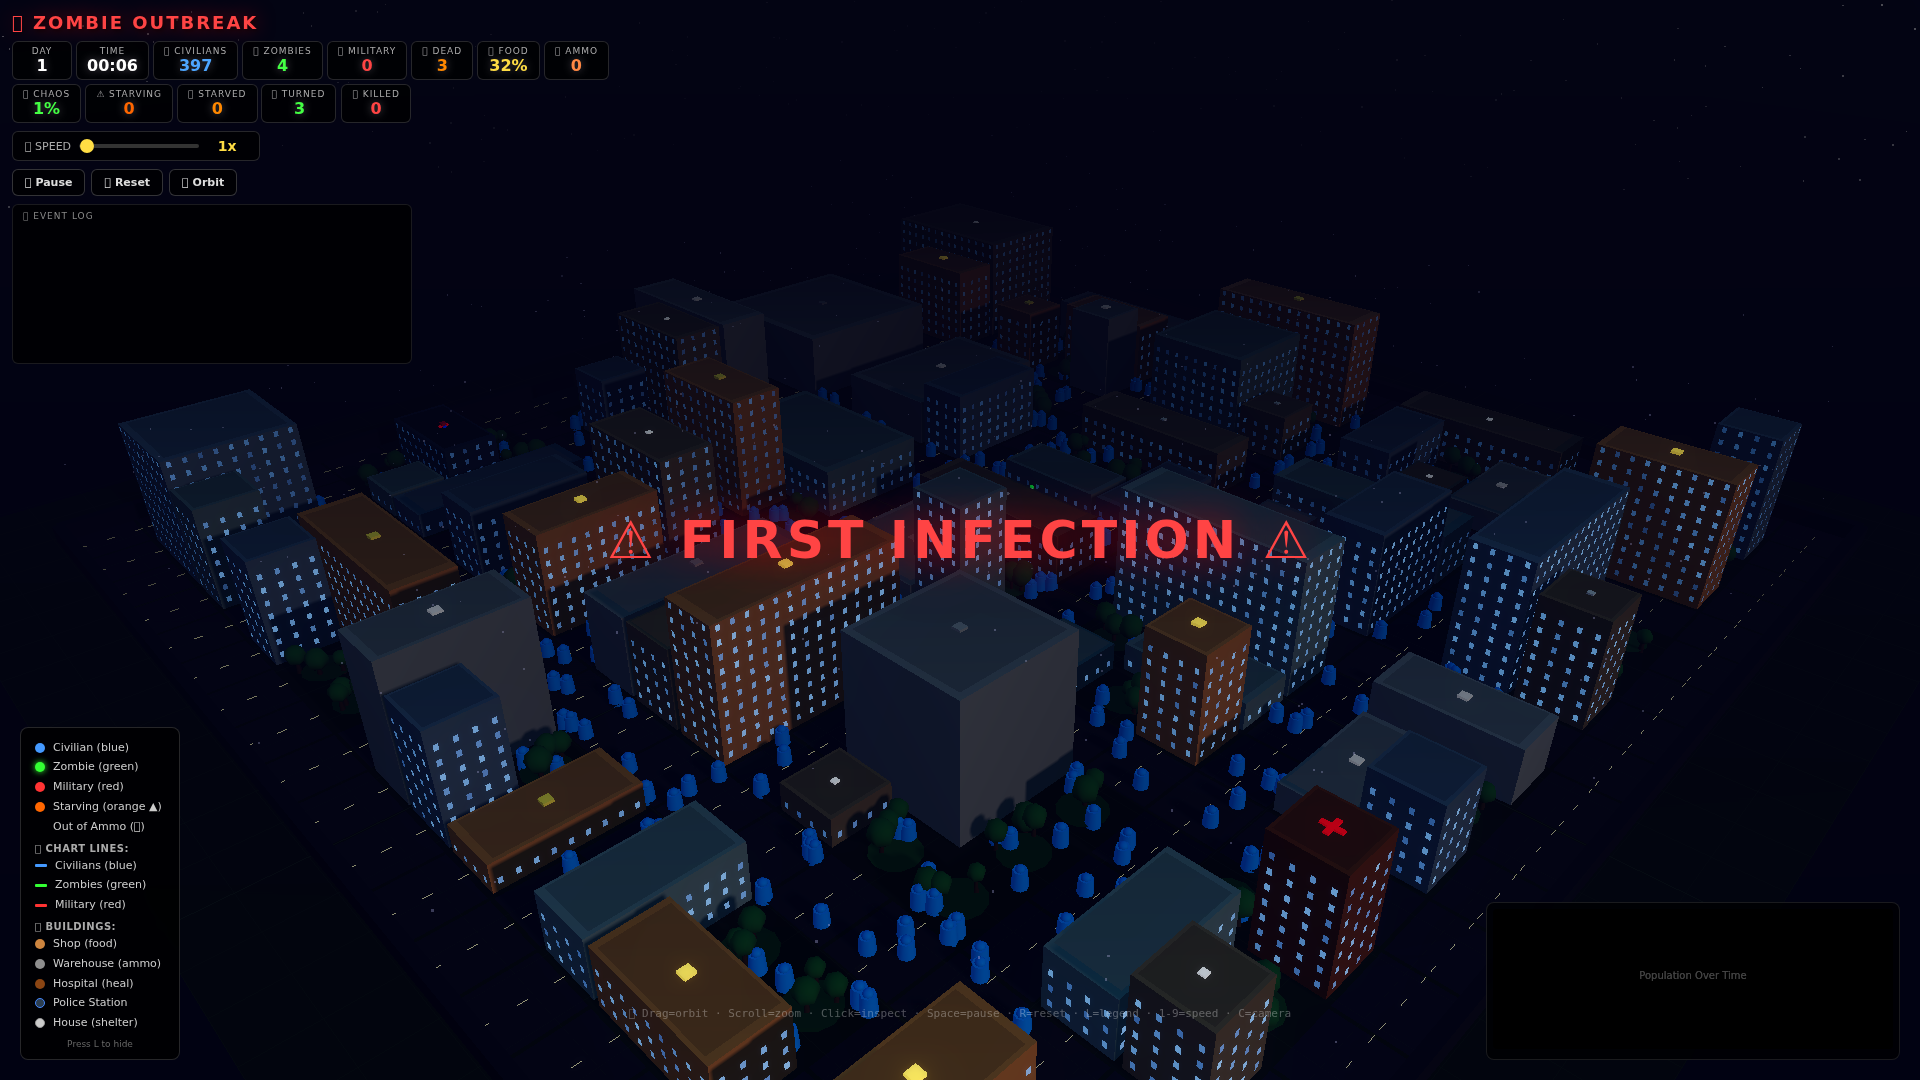
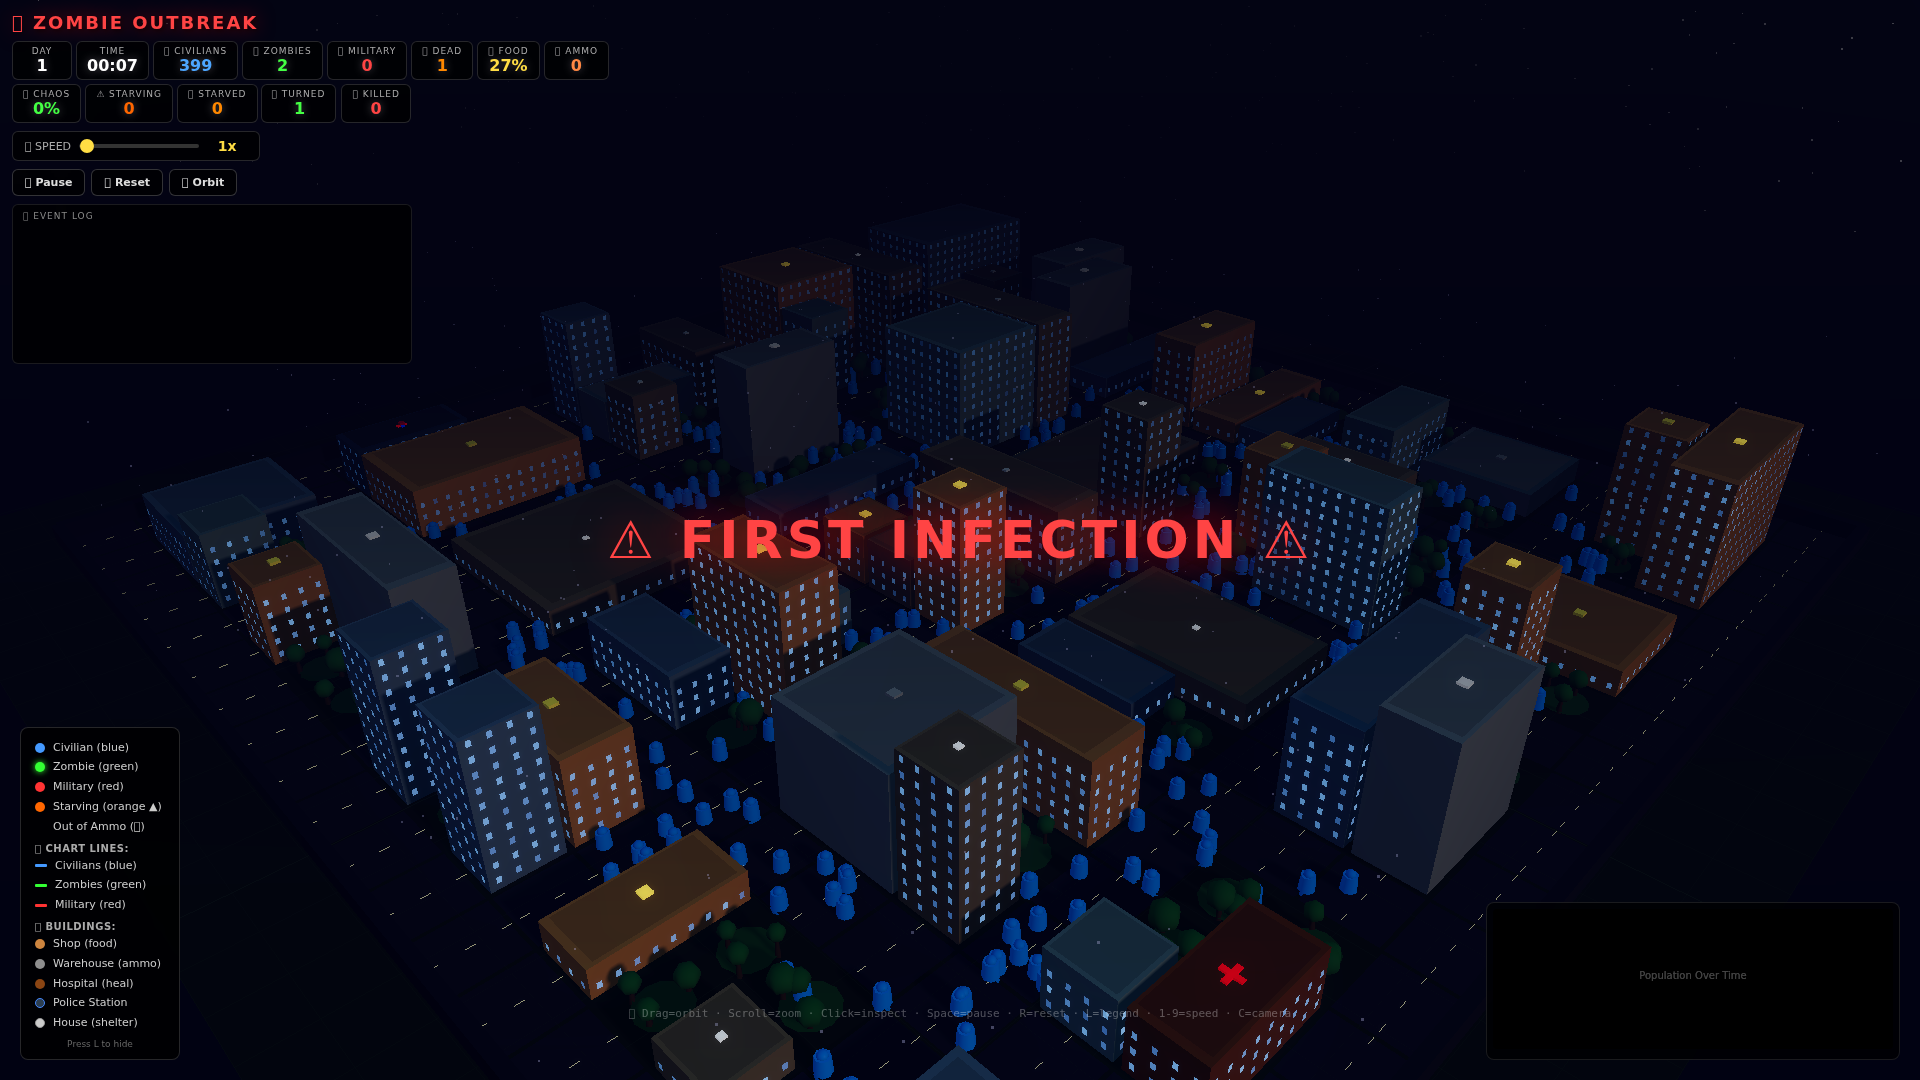
Make occupation dots, starving indicators, and bang sprites much bigger and visible

Changed region(s): [[0.0625, 0.275, 0.9375, 1.0], [0.4062, 0.2139, 0.5312, 0.275]]

diff --git a/src/renderer.ts b/src/renderer.ts
@@ -269,7 +269,7 @@ export class Renderer3D {
     this.militaryGeom = new THREE.BoxGeometry(0.45, 0.6, 0.45);
     this.antennaGeom = new THREE.CylinderGeometry(0.02, 0.02, 0.2, 3);
     this.noAmmoIndicatorGeom = new THREE.ConeGeometry(0.08, 0.12, 3);
-    this.starvingIndicatorGeom = new THREE.ConeGeometry(0.06, 0.08, 3);
+    this.starvingIndicatorGeom = new THREE.ConeGeometry(0.15, 0.25, 6);
 
     // ─── Particle system (effects) ───
     this.particleGeom = new THREE.BufferGeometry();
@@ -459,11 +459,11 @@ export class Renderer3D {
           emissiveIntensity: 0.3,
         });
         const hBar = new THREE.Mesh(new THREE.BoxGeometry(0.8, 0.08, 0.2), crossMat);
-        hBar.position.set(b.x, b.h + 0.06, b.z);
+        hBar.position.set(b.x, b.h + 0.08, b.z);
         this.scene.add(hBar);
         this.buildingMeshes.push(hBar);
         const vBar = new THREE.Mesh(new THREE.BoxGeometry(0.2, 0.08, 0.8), crossMat);
-        vBar.position.set(b.x, b.h + 0.06, b.z);
+        vBar.position.set(b.x, b.h + 0.08, b.z);
         this.scene.add(vBar);
         this.buildingMeshes.push(vBar);
       }
@@ -536,7 +536,7 @@ export class Renderer3D {
           emissiveIntensity: 0.15,
         });
         const mark = new THREE.Mesh(new THREE.BoxGeometry(0.25, 0.08, 0.25), houseMat);
-        mark.position.set(b.x, b.h + 0.06, b.z);
+        mark.position.set(b.x, b.h + 0.08, b.z);
         this.scene.add(mark);
         this.specialBuildingLights.push(mark);
       }
@@ -868,7 +868,7 @@ export class Renderer3D {
       }
     }
 
-    const dotGeom = new THREE.PlaneGeometry(0.16, 0.16);
+    const dotGeom = new THREE.PlaneGeometry(0.6, 0.6);
 
     for (const [bId, count] of buildingOccupants.entries()) {
       if (count <= 0) continue;
@@ -878,7 +878,7 @@ export class Renderer3D {
       const dotCount = Math.min(count, 12);
       const cols = Math.min(4, Math.ceil(Math.sqrt(dotCount)));
       const rows = Math.ceil(dotCount / cols);
-      const spacing = 0.3;
+      const spacing = 0.7;
 
       let dots = this.buildingOccupantDots.get(bId);
 
@@ -891,14 +891,14 @@ export class Renderer3D {
           const col = i % cols;
           const row = Math.floor(i / cols);
           const mat = new THREE.MeshBasicMaterial({
-            color: i < 2 ? 0x44aaff : 0x66ccff,
+            color: i < 2 ? 0x44ddff : 0x88eeff,
             transparent: true,
-            opacity: 0.85,
+            opacity: 1.0,
             depthWrite: false,
             side: THREE.DoubleSide,
           });
           const dot = new THREE.Mesh(dotGeom.clone(), mat);
-          dot.position.set(b.x + startX + col * spacing, b.h + 0.06, b.z + startZ + row * spacing);
+          dot.position.set(b.x + startX + col * spacing, b.h + 0.08, b.z + startZ + row * spacing);
           dot.rotation.x = -Math.PI / 2;
           this.scene.add(dot);
           dots.push(dot);
@@ -1144,25 +1144,25 @@ export class Renderer3D {
         opacity: 0,
       });
       const starvingMesh = new THREE.Mesh(this.starvingIndicatorGeom, starvingMat);
-      starvingMesh.position.y = 0.78;
+      starvingMesh.position.y = 0.85;
       starvingMesh.userData.isStarving = true;
       starvingMesh.visible = false;
       group.add(starvingMesh);
 
       // Pulsing red "!" sprite for starving civilians
       const bangCanvas = document.createElement('canvas');
-      bangCanvas.width = 32;
-      bangCanvas.height = 32;
+      bangCanvas.width = 64;
+      bangCanvas.height = 64;
       const bangCtx = bangCanvas.getContext('2d')!;
       bangCtx.fillStyle = '#ff0000';
       bangCtx.beginPath();
-      bangCtx.arc(16, 16, 14, 0, Math.PI * 2);
+      bangCtx.arc(32, 32, 28, 0, Math.PI * 2);
       bangCtx.fill();
       bangCtx.fillStyle = '#ffffff';
       bangCtx.font = 'bold 24px sans-serif';
       bangCtx.textAlign = 'center';
       bangCtx.textBaseline = 'middle';
-      bangCtx.fillText('!', 16, 17);
+      bangCtx.fillText('!', 32, 33);
       const bangTex = new THREE.CanvasTexture(bangCanvas);
       const bangMat = new THREE.SpriteMaterial({
         map: bangTex,
